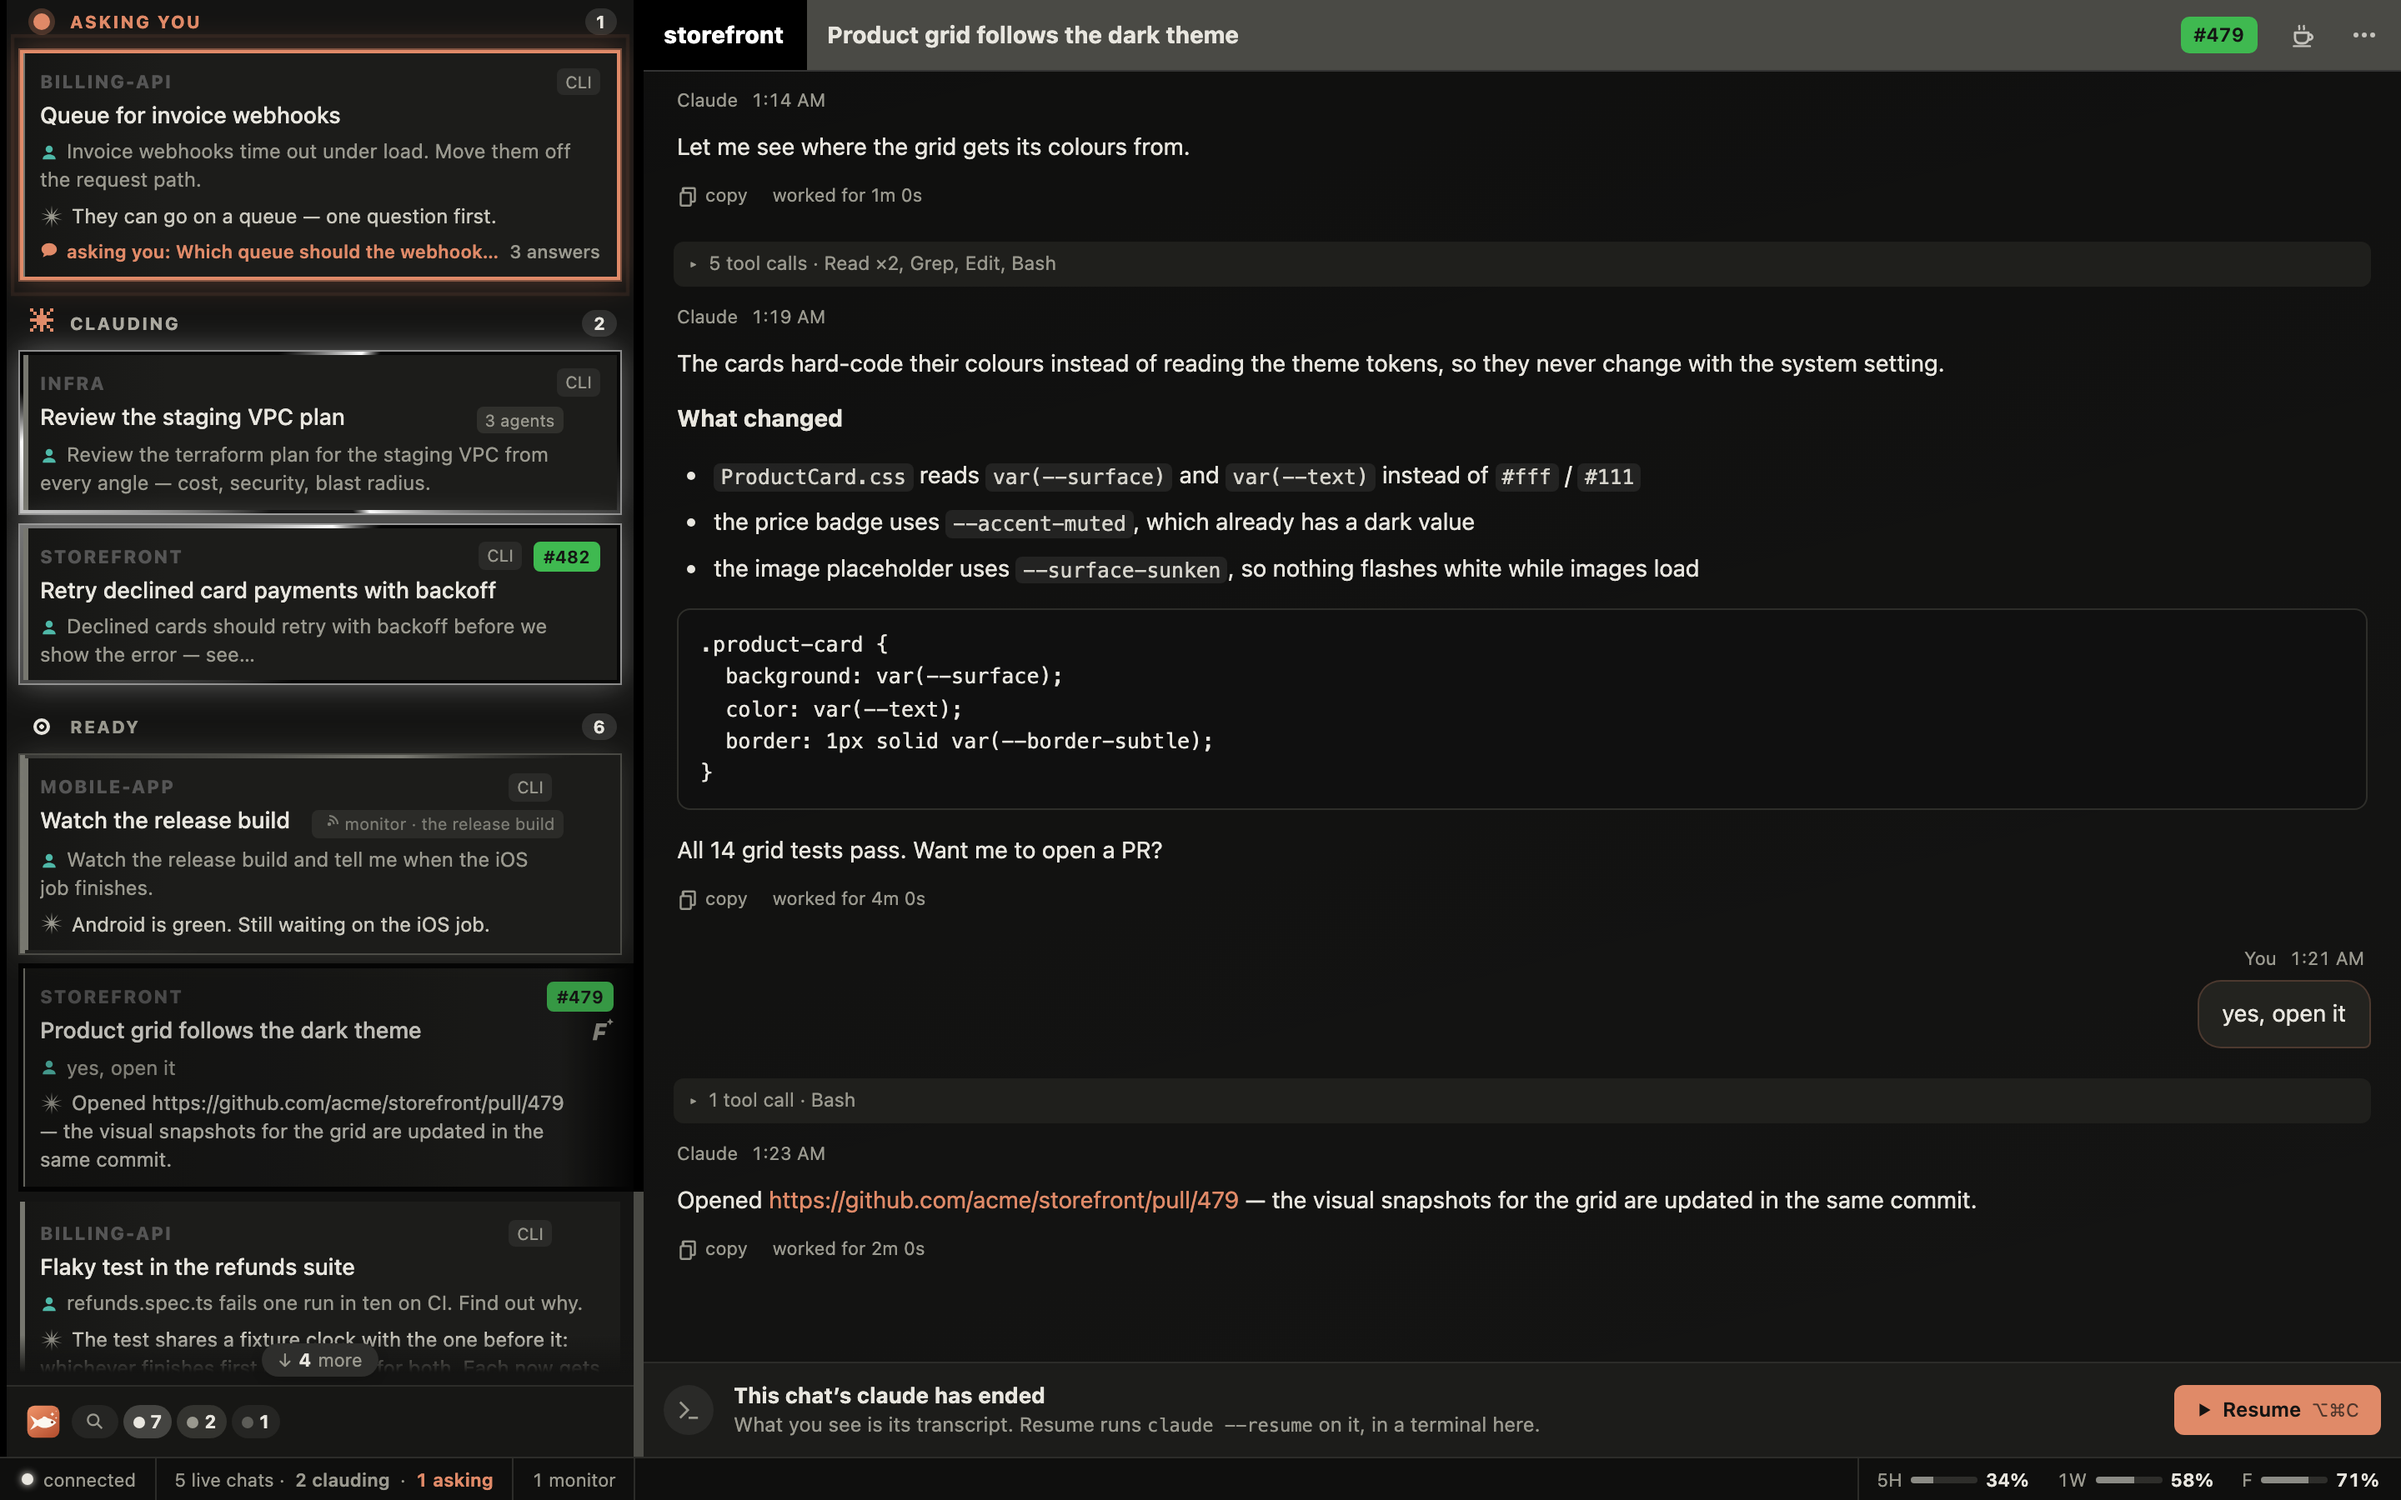
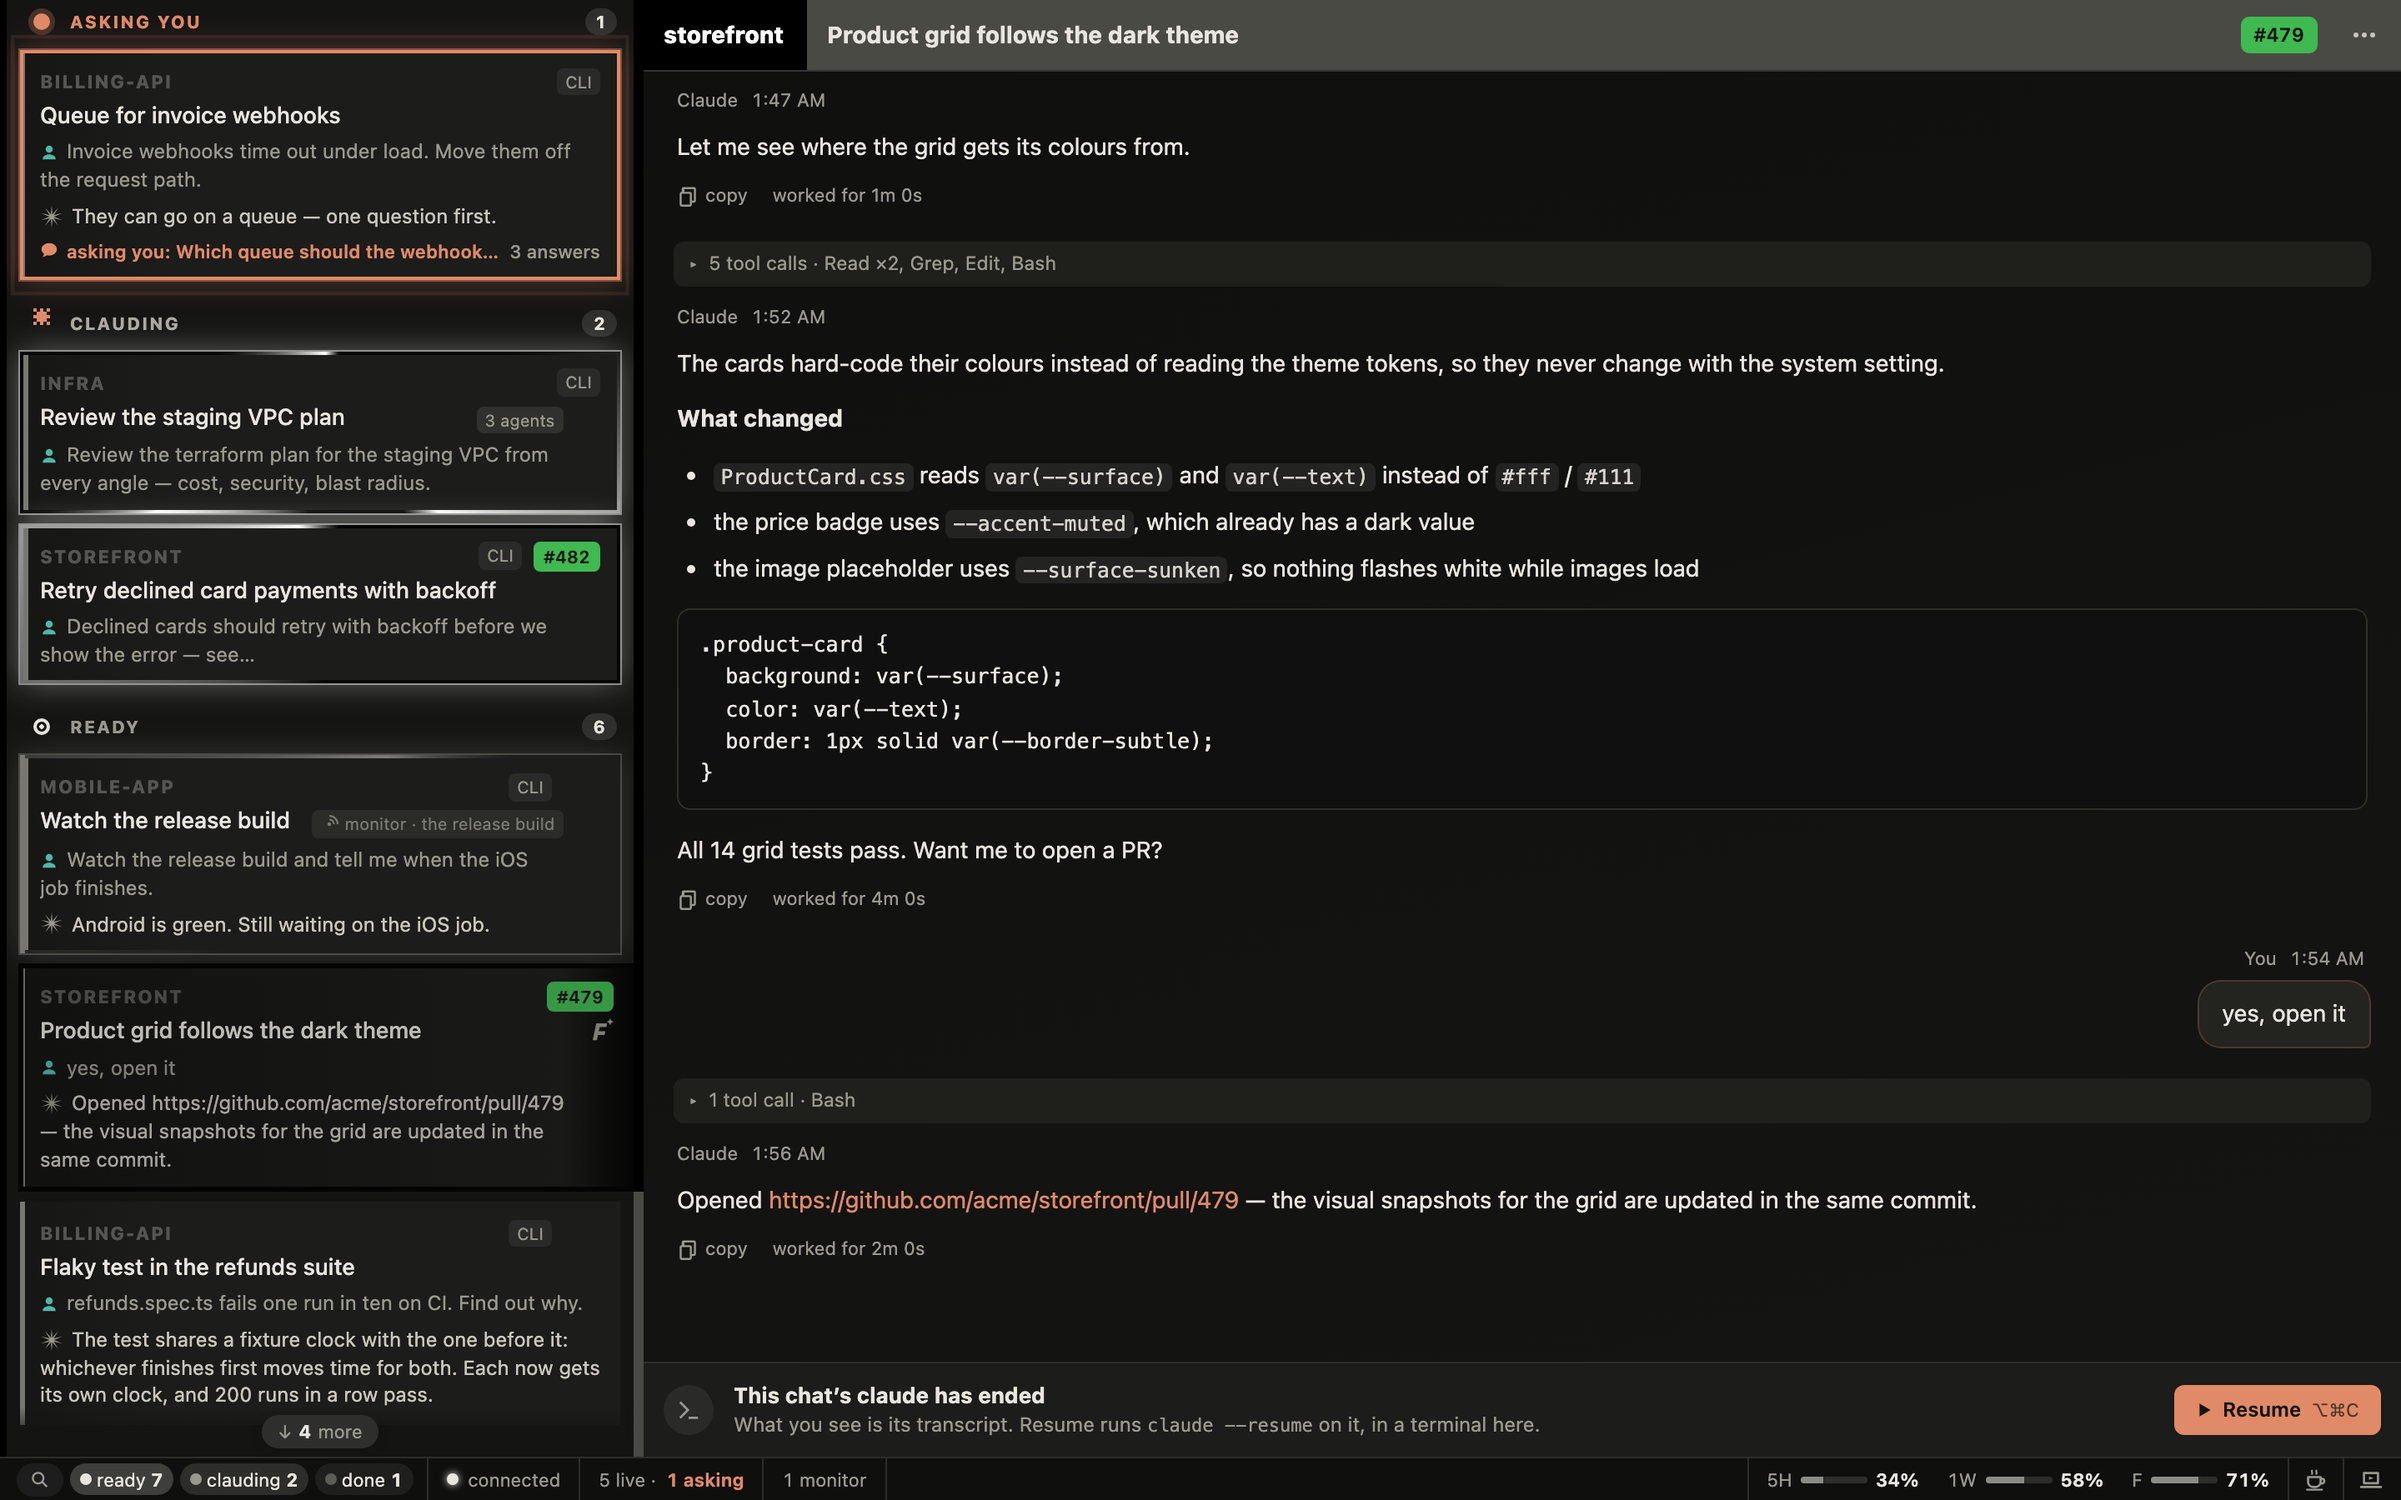
README: the status bar as it is now, the search and the faces in it
The screenshots redrawn from the made-up board, and the status bar's line rewritten for what it holds now.

Changed region(s): [[0.0, 0.9022, 0.3125, 1.0], [0.75, 0.9644, 1.0, 0.9956], [0.9062, 0.0, 0.9688, 0.0622]]

diff --git a/README.md b/README.md
@@ -46,9 +46,9 @@ It reads what Claude Code already writes to `~/.claude` — no plugin, no privat
 - 🌑 **Simple colours** — a quieter board: every project in black (or one colour you pick), the states in grey; PRs
   and faces keep their colours, and the accent is left for what needs you.
 - 🪟 **Tabs and splits** — a shell, VS Code Web and GitHub pages beside the chat.
-- 📊 **A status bar** — connected, live and clauding chats, drawers, your plan's limits (or its monthly spend cap), and
-  optionally CPU and memory, along the window's foot.
-- ☕ **Keep the Mac awake** — from ···, with the lid closed too (asks for your password); a mark top right while it holds.
+- 📊 **A status bar** — along the window's foot: the search and the state filters, connected and live chats, drawers,
+  the faces on your PRs, your plan's limits (or its monthly spend cap), keeping the Mac awake (with the lid closed too,
+  by Touch ID where sudo takes it), and optionally CPU and memory.
 
 <table>
   <tr>
